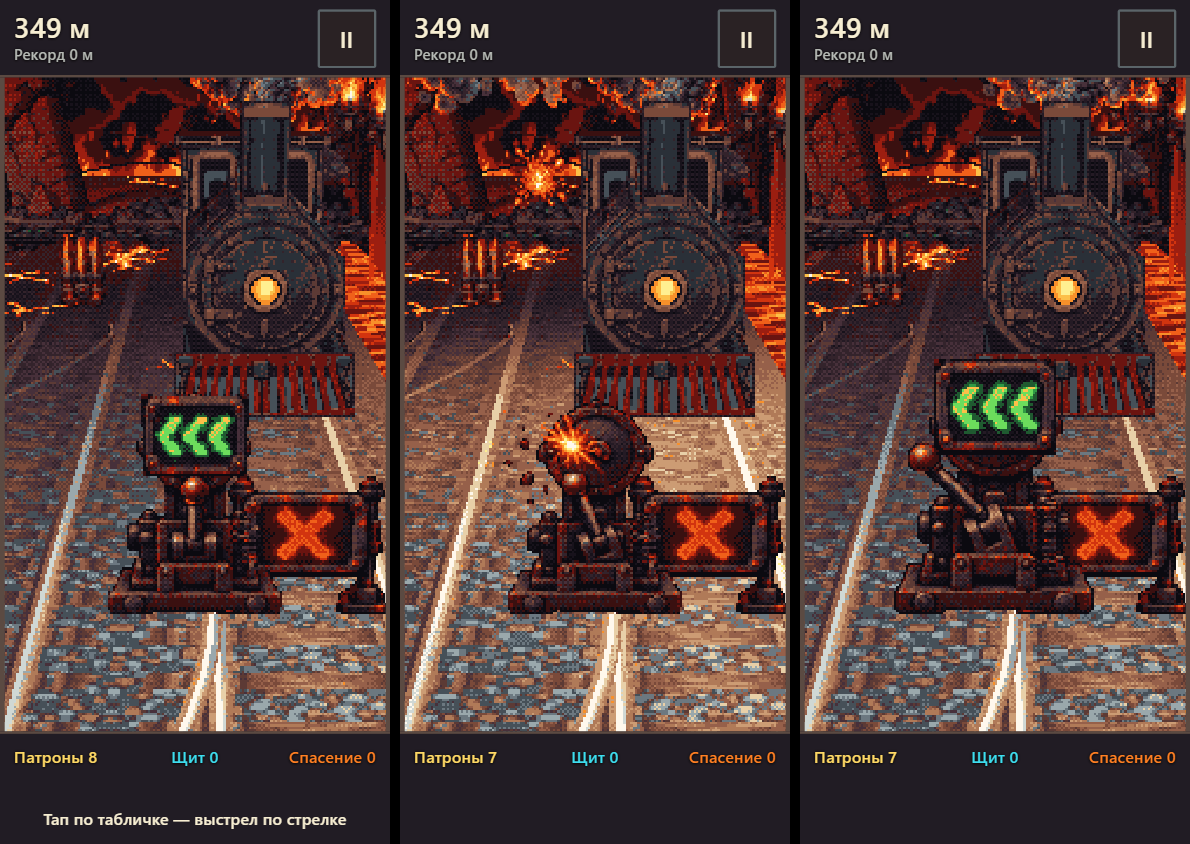
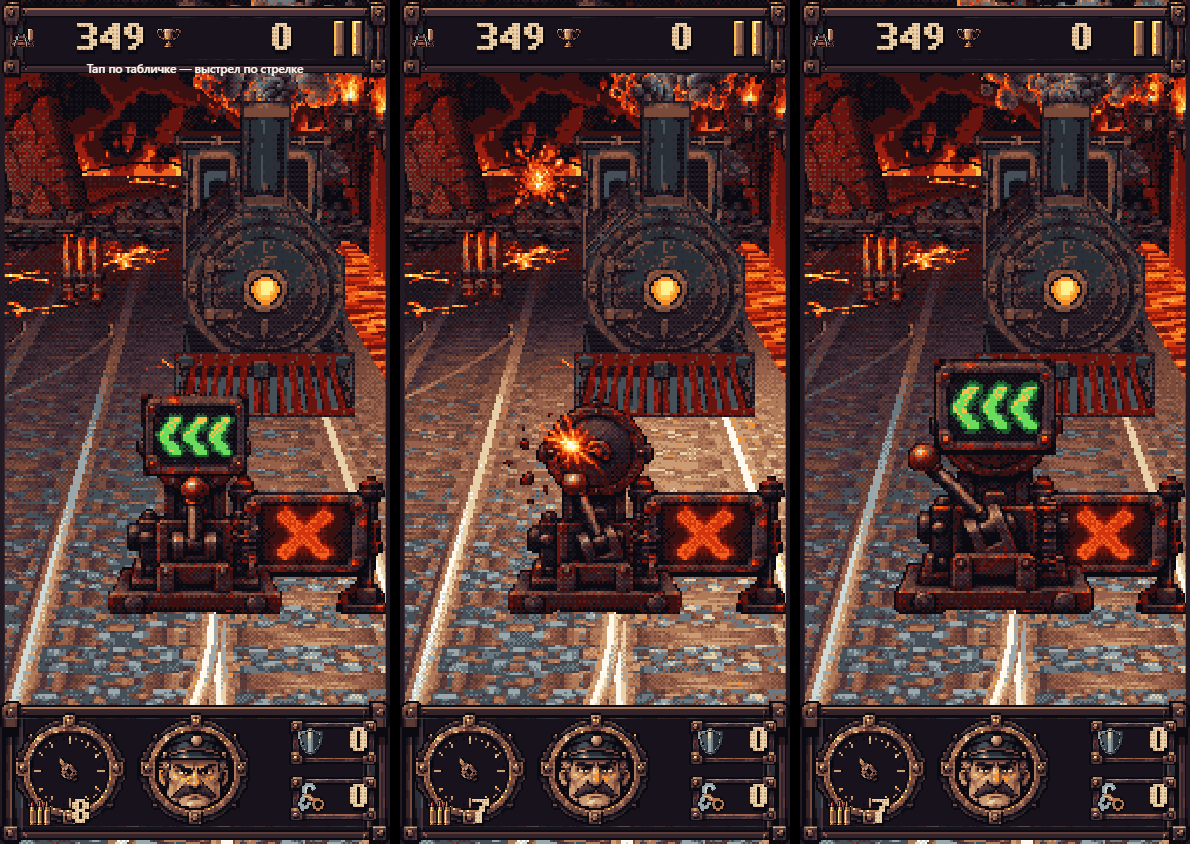
Кадры и числа карточки 39 на дереве с приборной доской (Developer, Claude)

diff --git a/tasks/DONE.md b/tasks/DONE.md
@@ -46,4 +46,4 @@
 | 2026-10-31 | 27 Обучение | Claude (Developer) | кнопка активна; 11 шагов, 117 сегм.; бот на правилах и в браузере настоящими тапами 49,0 с, ошибок 0; возврат на шаг после крушения и промаха, 5 отрицательных проб; рекорд и таблица не тронуты; обвал 1,8 → 1,26 сегм./с, зазор 5–6 → 8; подсказка RU/EN в рамке на 360×640 и 390×844; 24 кадра `docs/qa/tutorial/`, `REPORT.md` |
 | 2026-10-31 | 32 Приборная доска HUD v3 | Codex (арт) | 45 игровых PNG; низ 144 CSS px на 390×844, вне палитры 0, один машинист в 6 состояниях; 153/153 теста, код 0 / 4,739 с; art_src/hud_v3/REPORT.md |
 | 2026-11-01 | 33 Сцена нового мира | Claude (Developer) | бок поезда виден, рыскание 30,2°; слои при смене полосы 17,5 / 21,2 / 26,8 / 36,5 px рендера; кадр 360×640 1,50 → 2,02 мс; архив 6,03 → 4,27 МБ; lint 0; тап 8 из 8, демоны 18 из 18; проверка арта 54 ассета в воротах; 167/167 тестов; характер кадра подтверждает владелец; `docs/qa/world/REPORT.md` |
-| 2026-11-01 | 39 Рычажные стрелки | Claude (Developer) | вместо таблички стойка с рычагом: ожидание → искры 0,14 с → рычаг и остряки; цель тапа прежняя; тап 8 из 8, демоны 18 из 18 на 4 экранах; lint 0; кадр 360×640 2,13 мс; 168/168 тестов; `docs/qa/levers/REPORT.md` |
+| 2026-11-01 | 39 Рычажные стрелки | Claude (Developer) | вместо таблички стойка с рычагом: ожидание → искры 0,14 с → рычаг и остряки; цель тапа прежняя; тап 8 из 8, демоны 18 из 18 на 4 экранах; lint 0; кадр 360×640 1,96 мс; 170/170 тестов; `docs/qa/levers/REPORT.md` |

diff --git a/docs/qa/levers/REPORT.md b/docs/qa/levers/REPORT.md
@@ -18,14 +18,16 @@
 
 ## Проверки
 
+На дереве, сведённом с `main` 0c66edf (приборная доска карточки 34): кадры, тап, демоны, линтер, цена кадра и сборка сняты заново после сведения. Живой цикл снят до этого сведения.
+
 | Проверка | Итог |
 |---|---:|
 | Тап, настоящий `pointerdown`, 320×568, 360×640, 390×844, 430×932, 1,5 / 2,6 / 2,95 сегм. | 8 из 8 на каждом, под пальцем холст 8 из 8 |
 | Демоны в кадре и сбиты, те же экраны | 18 из 18 и 18 из 18 |
 | `await Debug3D.lint()`, у развилки, 390×844 | 0 находок |
-| Цена кадра 360×640, 5 запусков | 2,13 мс (1,86–2,20), до карточки 2,02 мс; разница в пределах разброса |
-| `node tools/build.mjs`, код 0 | 4 474 766 байт, 4,27 МБ |
-| `node tools/check.mjs --tests`, код 0, стена 5,5 с | 168 из 168 |
+| Цена кадра 360×640, 5 запусков | 1,96 мс (1,86–2,11), до карточки 2,02 мс: разница в пределах разброса |
+| `node tools/build.mjs`, код 0 | 4 458 909 байт, 4,25 МБ |
+| `node tools/check.mjs --tests`, код 0, стена 5,2 с | 170 из 170 |
 | Живой цикл 24 с с тапами | 37 тапов, ошибок консоли 0 |
 
 Новая проба: кадры рычага и задержка остряков в `tests/collapse-scene.test.mjs`. Снята задержка остряков → красная. Первый запуск пробы упал на самой пробе: 5 + 0,14 − 5 в плавающей точке меньше 0,14; момент в ней заменён.
